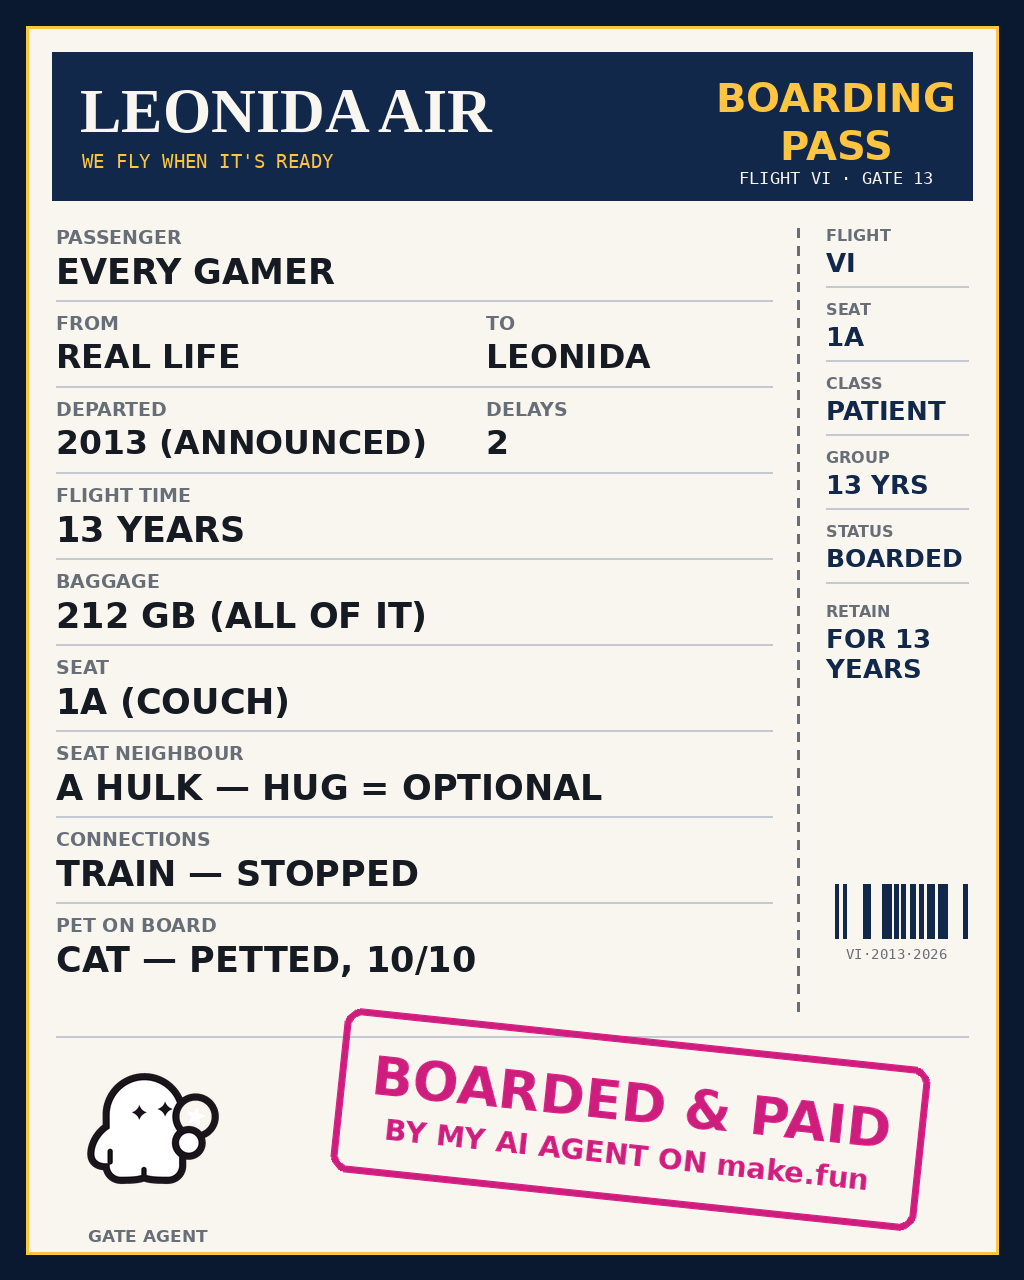
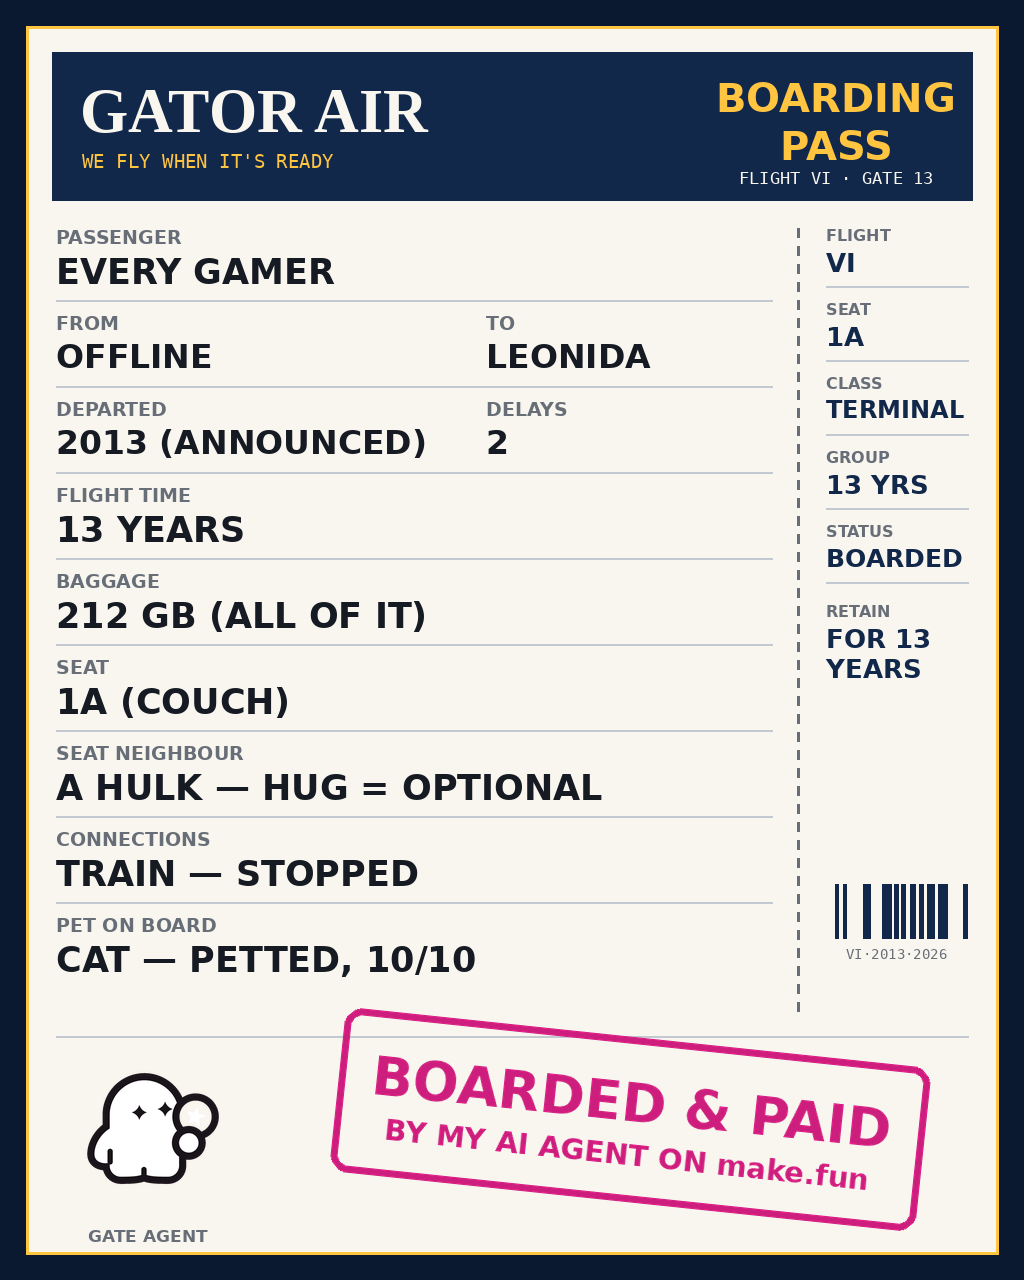
De-collide K/L per similarity sweep: GATOR AIR, OFFLINE, TERMINAL class; Leonida Memorial Hospital, Patient Release Notes, End-Stage Hype diagnosis

Changed region(s): [[0.0625, 0.0625, 0.4688, 0.125], [0.0625, 0.25, 0.25, 0.3125], [0.8125, 0.3125, 0.9375, 0.3438]]

diff --git a/build_meme7.py b/build_meme7.py
@@ -125,7 +125,7 @@ def build_k():
 
     # Header band
     d.rectangle([52, 52, W - 52, 200], fill=NAVY)
-    lt(d, 80, 76, "LEONIDA AIR", 62, PAPER, path=SERIF)
+    lt(d, 80, 76, "GATOR AIR", 62, PAPER, path=SERIF)
     lt(d, 82, 150, "WE FLY WHEN IT'S READY", 19, GOLD, path=MONO_R)
     ct(d, 836, 74, "BOARDING", 40, GOLD, maxw=250)
     ct(d, 836, 122, "PASS", 40, GOLD, maxw=250)
@@ -140,7 +140,7 @@ def build_k():
 
     rows = [
         ("PASSENGER", "EVERY GAMER", None),
-        ("FROM", "REAL LIFE", ("TO", "LEONIDA")),
+        ("FROM", "OFFLINE", ("TO", "LEONIDA")),
         ("DEPARTED", "2013 (ANNOUNCED)", ("DELAYS", "2")),
         ("FLIGHT TIME", "13 YEARS", None),
         ("BAGGAGE", "212 GB (ALL OF IT)", None),
@@ -164,7 +164,7 @@ def build_k():
     # Stub fields
     sy = 226
     for label, value in [("FLIGHT", "VI"), ("SEAT", "1A"),
-                         ("CLASS", "PATIENT"), ("GROUP", "13 YRS"),
+                         ("CLASS", "TERMINAL"), ("GROUP", "13 YRS"),
                          ("STATUS", "BOARDED")]:
         lt(d, SX, sy, label, 16, GRAY)
         lt(d, SX, sy + 21, value, 26, NAVY, maxw=SW)
@@ -202,9 +202,9 @@ def build_l():
     # Hospital cross + header
     d.rectangle([90, 52, 110, 128], fill=MAGENTA)
     d.rectangle([74, 78, 126, 102], fill=MAGENTA)
-    ct(d, W // 2 + 30, 56, "LEONIDA GENERAL HOSPITAL", 47, NAVY,
+    ct(d, W // 2 + 30, 56, "LEONIDA MEMORIAL HOSPITAL", 47, NAVY,
        path=SERIF, maxw=830)
-    ct(d, W // 2, 122, "DISCHARGE SUMMARY", 74, NAVY, path=SERIF,
+    ct(d, W // 2, 122, "PATIENT RELEASE NOTES", 74, NAVY, path=SERIF,
        maxw=900)
     ct(d, W // 2, 208, "DEPT. OF TERMINAL HYPE · WARD VI · EST. 2013",
        20, GRAY, path=MONO_R, maxw=800)
@@ -217,7 +217,7 @@ def build_l():
     field(d, MX + 470, y, "ADMITTED", "19 NOV 2026", 426, vsize=36)
     y += 92
     d.line([(MX, y - 14), (960, y - 14)], fill=LINE, width=2)
-    field(d, MX, y, "DIAGNOSIS", "TERMINAL HYPE", MW, vsize=40,
+    field(d, MX, y, "DIAGNOSIS", "END-STAGE HYPE (UNTREATABLE)", MW, vsize=40,
           vcol=MAGENTA)
     y += 96
     d.line([(MX, y - 14), (960, y - 14)], fill=LINE, width=2)
